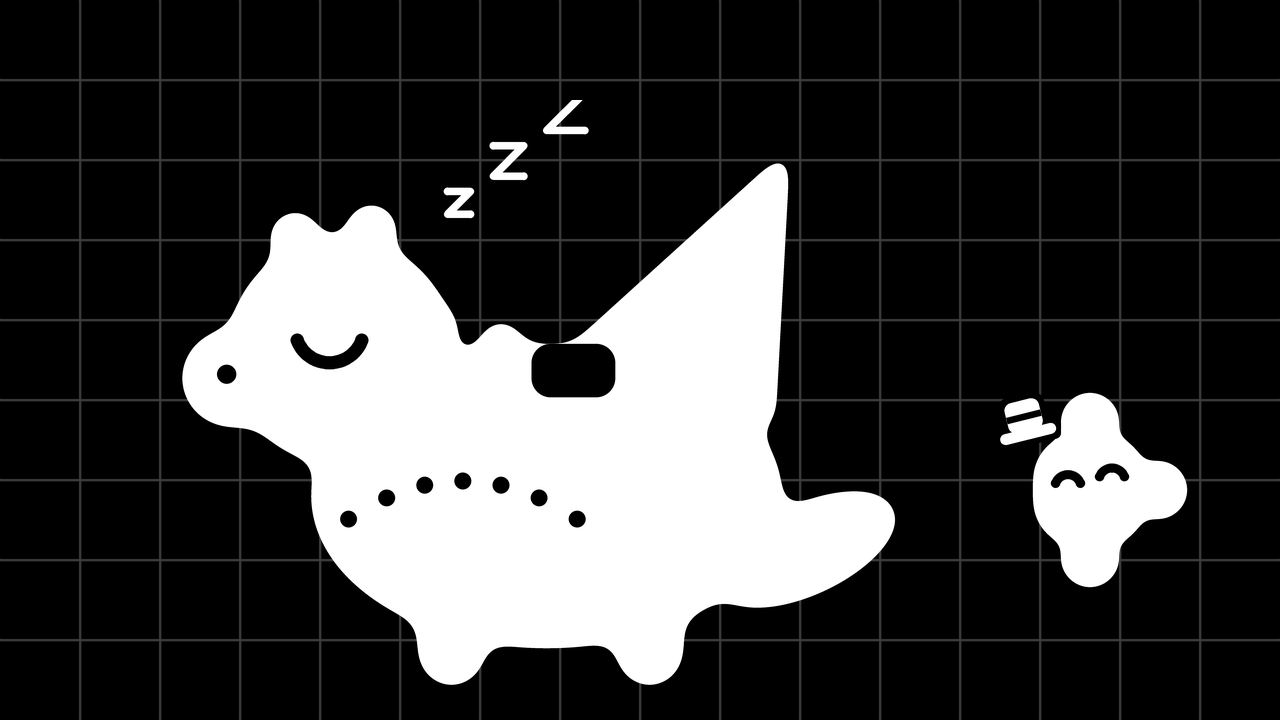
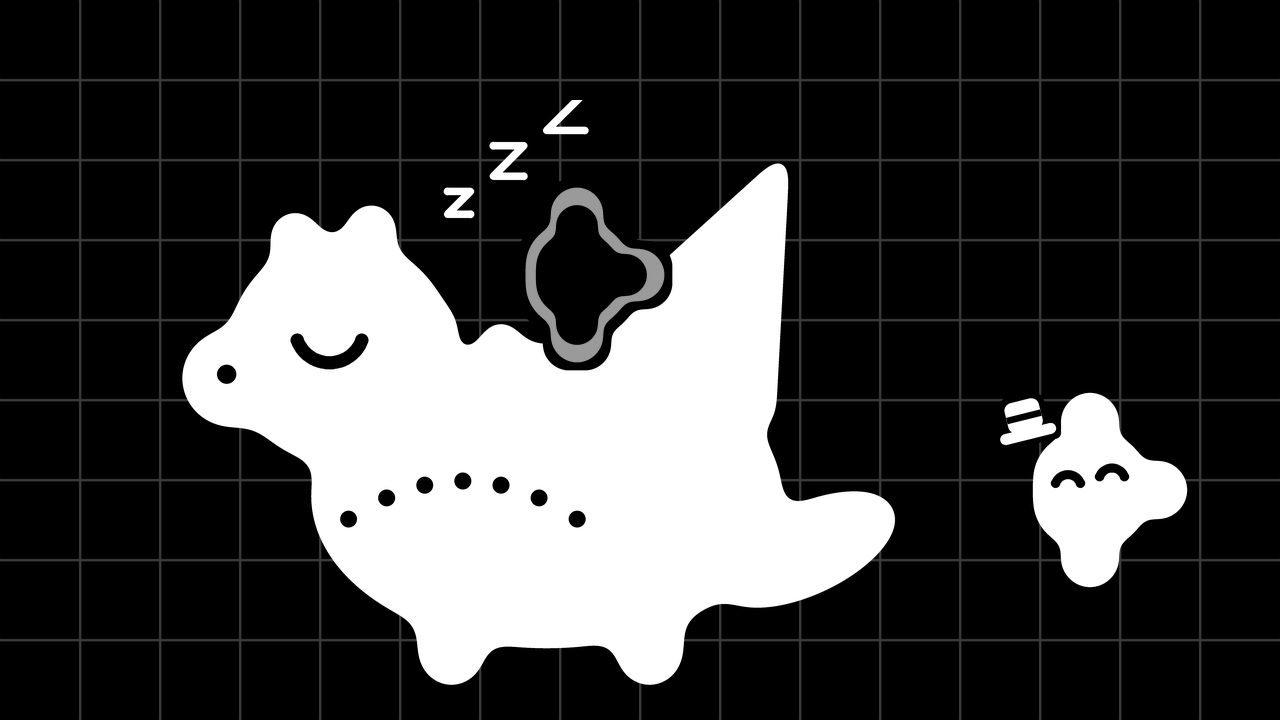
UI improvements added

Changed region(s): [[0.4062, 0.2444, 0.5312, 0.55]]

diff --git a/Assets/Scripts/KayipParca/LevelManager.cs b/Assets/Scripts/KayipParca/LevelManager.cs
@@ -64,7 +64,9 @@ namespace KayipParca
         // HUD yerlesimi (1920x1080 tuval birimi). Kamera tahtayi bu bantlarin arasina sigdirir.
         const float HudTop = 24f, IconSize = 96f, IconLabel = 32f, IconGap = 26f, MovesWidth = 300f, PillWidth = 236f;
         const float TopReserve = HudTop + IconSize + IconLabel + 18f;   // ust bant: baslik, hamle, sekil ikonlari
-        const float BottomReserve = 128f;                               // alt bant: ipucu + kontroller
+        const float HintReserve = 128f;                                 // ipucu + kontroller
+        const float MessageHeight = 140f, MessageGap = 36f;             // orta mesaj seridi: ipucunun ustunde
+        const float BottomReserve = HintReserve + MessageGap + MessageHeight;   // alt bant: mesaj + ipucu + kontroller
 
         enum Death { None, Hazard, Enemy, Laser, Fire, Moves }
 
@@ -163,6 +165,7 @@ namespace KayipParca
             if (a < 0) return;
             if (inScreen) { if (a == 8) screenNext = true; if (a == 10) screenSkip = true; return; }
             if (busy) return;
+            if (introShowing && a != 10) { introShowing = false; ShowMessage(""); }   // ilk hamlede seviye yazisi kalkar
             if (a <= 5 || a == 8) Step(a);
             else if (a == 6) Undo();
             else if (a == 7) { Play(sfxBump); ResetState(); }
@@ -263,13 +266,14 @@ namespace KayipParca
             }
             if (message)
             {
-                UIKit.Style(message, UIKit.Body, 60, TextAnchor.MiddleCenter);
-                UIKit.Stretch(message.rectTransform, .17f, .2f, .83f, .8f);   // sabit 1300 birimlik balonun icinde sarar
+                // tahtanin altinda, ipucunun ustunde yatay serit; balon yaziya gore boyutlanir (tahtayi ortmez)
+                UIKit.Style(message, UIKit.Body, 40, TextAnchor.MiddleCenter);
+                UIKit.BottomBand(message.rectTransform, 200, 200, HintReserve + MessageGap, MessageHeight);
             }
             if (hint)
             {
                 UIKit.Style(hint, UIKit.Body, 30, TextAnchor.LowerCenter);
-                UIKit.BottomBand(hint.rectTransform, 80, 80, 68, BottomReserve - 74);
+                UIKit.BottomBand(hint.rectTransform, 80, 80, 68, HintReserve - 74);
             }
         }
 
@@ -325,9 +329,8 @@ namespace KayipParca
         public static HudWidgets BuildHud(Text title, Text moves, Text message, Text hint)
         {
             LayoutHudTexts(title, moves, message, hint);
-            // orta mesaj: beyaz konusma balonu, siyah yazi (blob stili)
-            if (message && !message.transform.parent.Find(message.name + "_Zemin"))
-                UIKit.SetCorner(UIKit.AddBackdrop(message, Color.white, UIKit.BackdropPad, new Vector2(1300, 240)), 48);
+            // mesaj: yaziya gore boyutlanan yari saydam gecisli beyaz balon, siyah yazi (blob stili)
+            if (message) UIKit.AddBubble(message);
             if (message) message.color = Color.black;
             // hamle sayaci: sabit boyutlu beyaz hap, siyah rakam (rakam degisince hap oynamaz)
             if (moves && !moves.transform.parent.Find(moves.name + "_Zemin"))
@@ -371,6 +374,12 @@ namespace KayipParca
         }
 
         // ------------------------------------------------------------------ seviye yukleme
+        /// Seviye adi + hikaye balonunun (gecis bittikten sonra) en fazla ekranda kalma suresi; ilk hamlede hemen kalkar.
+        const float IntroHold = 2.5f;
+        bool introShowing;
+        /// Kazaninca outro metninin ekranda kalma suresi.
+        const float OutroHold = 1.6f;
+
         IEnumerator LoadLevel(int i)
         {
             busy = true;
@@ -379,11 +388,12 @@ namespace KayipParca
             if (!firstLoad && themes) yield return themes.FadeOut();
             firstLoad = false;
             Build(i);
-            ShowMessage($"{LevelNumber()}. {data.name}" + (string.IsNullOrEmpty(data.story) ? "" : "\n<size=34>" + data.story + "</size>"));
+            ShowMessage($"{LevelNumber()}. {data.name}" + (string.IsNullOrEmpty(data.story) ? "" : "\n<size=30>" + data.story + "</size>"));
+            introShowing = true;
             if (themes) yield return themes.FadeIn(data.theme);
             busy = false;
-            yield return new WaitForSeconds(1.6f);
-            if (!busy && !inScreen && index == i) ShowMessage("");
+            for (float t = 0; t < IntroHold && introShowing && index == i; t += Time.deltaTime) yield return null;
+            if (introShowing && !busy && !inScreen && index == i) { introShowing = false; ShowMessage(""); }
         }
 
         int LevelNumber()
@@ -885,7 +895,7 @@ namespace KayipParca
             bool saved = data.hasLost && s.following;
             if (saved) { rescued.Add(entries[index].file); SaveRescued(); ApplyVisuals(snap: false); }
             ShowMessage("Tık!" + (saved ? "\n<size=34>Kayıp parçayı kurtardın!</size>" : "") + (string.IsNullOrEmpty(data.outro) ? "" : "\n<size=34>" + data.outro + "</size>"));
-            yield return new WaitForSeconds(string.IsNullOrEmpty(data.outro) ? 0.8f : 2.6f);
+            yield return new WaitForSeconds(string.IsNullOrEmpty(data.outro) ? 0.6f : OutroHold);
 
             PickEnding(out string endText, out string endImg);
             bool hasEnding = endText != null;

diff --git a/Assets/Scripts/KayipParca/UIKit.cs b/Assets/Scripts/KayipParca/UIKit.cs
@@ -18,6 +18,10 @@ namespace KayipParca
         /// Ikincil yazilar (etiketler, tus aciklamalari): siyah zemin ustunde gri.
         public static readonly Color Mute = new Color(.6f, .6f, .6f);
         public static readonly Color BackdropColor = new Color(0, 0, 0, .62f);
+        /// Mesaj balonu rengi (ust / alt). Balon artik tahtanin altinda durdugu icin opak beyaz;
+        /// alfa ya da ton degistirilerek dikey gecis verilebilir (UIGradient bu iki rengi harmanlar).
+        public static readonly Color BubbleTop = Color.white;
+        public static readonly Color BubbleBottom = Color.white;
         public static readonly Vector2 BackdropPad = new Vector2(44, 20);
 
         public static Font DefaultFont => Resources.GetBuiltinResource<Font>("LegacyRuntime.ttf");
@@ -270,6 +274,36 @@ namespace KayipParca
                 rounded = Sprite.Create(tex, new Rect(0, 0, n, n), new Vector2(.5f, .5f), 100, 0, SpriteMeshType.FullRect, new Vector4(r, r, r, r));
                 return rounded;
             }
+        }
+
+        /// Grafige dikey renk gecisi ekler (ust -> alt). Image.color ile carpilir; balon icin Color.white verin.
+        public static UIGradient AddGradient(Graphic g, Color top, Color bottom)
+        {
+            var grad = g.GetComponent<UIGradient>();
+            if (!grad) grad = g.gameObject.AddComponent<UIGradient>();
+            grad.Set(top, bottom);
+            return grad;
+        }
+
+        /// Metnin arkasina blob stili konusma balonu: yuvarlak koseli, yari saydam beyaz gecisli zemin.
+        /// fixedSize verilmezse balon yaziya gore boyutlanir (kisa mesajda kucuk hap, uzun mesajda genis balon).
+        /// Metnin zaten bir zemini varsa (sahneye kaydedilmis olabilir) onu yeniden kurmaz, ayarlarini gunceller.
+        public static Image AddBubble(Text t, Vector2 fixedSize = default, float corner = 40)
+        {
+            var old = t.transform.parent.Find(t.name + "_Zemin");
+            Image bg;
+            if (old && old.GetComponent<TextBackdrop>())
+            {
+                bg = old.GetComponent<Image>();
+                bg.color = Color.white; bg.sprite = RoundedSprite; bg.type = Image.Type.Sliced;
+                var fit = old.GetComponent<TextBackdrop>();
+                fit.text = t; fit.pad = BackdropPad; fit.fixedSize = fixedSize;
+                fit.Refresh();
+            }
+            else bg = AddBackdrop(t, Color.white, BackdropPad, fixedSize);
+            SetCorner(bg, corner);
+            AddGradient(bg, BubbleTop, BubbleBottom);
+            return bg;
         }
 
         public static Image MakePanel(Transform parent, string name, Color col)

diff --git a/Tools/art_blob.py b/Tools/art_blob.py
@@ -273,11 +273,9 @@ def dragon_side(kind, k=1.0, rider=None, seat=False, seat_rect=(108, 64, 130, 78
         t = i / 6; x = 60 + 60 * t; y = 110 - 10 * 4 * t * (1 - t)
         ink.circle(x * k, y * k, 2.2 * k)
     if kind == 'awake':
-        ink.circle(*T(52, 60), 4 * k); ink.line([T(42, 50), T(62, 54)], 2.6 * k)
-        ink.poly([T(18, 80), T(50, 80), T(34, 88)])
+        ink.circle(*T(54, 60), 4.5 * k)                       # acik goz; yuz basliktakiyle ayni, sadece uyanik
     else:
         ink.arc(*T(55, 60), 9 * k, 20, 160, 3.5 * k)
-    if seat and rider is None: ink.rrect(*T(seat_rect[0], seat_rect[1]), *T(seat_rect[2], seat_rect[3]), 5 * k)
     layers = [(body, W), (ink, K)]
     if kind == 'sleep':
         z = Ink(w, h)
@@ -289,6 +287,13 @@ def dragon_side(kind, k=1.0, rider=None, seat=False, seat_rect=(108, 64, 130, 78
         halo = Image.new('L', (w, h), 0)
         halo.paste(rider.split()[3].filter(ImageFilter.MaxFilter(int(2.2 * k) * 2 + 1)), (rx, ry))
         layers.append((halo, K)); layers.append((rider, rx, ry))
+    elif seat:
+        # bos eyer: binicinin yerinde soluk gri, ici bos parca cercevesi (eksik yapboz parcasi)
+        ghost = piece_img('1110', int(52 * k), face=None, outline=True, fill=G)
+        rx, ry = int(120 * k - ghost.width / 2), int(46 * k - ghost.height / 2)
+        halo = Image.new('L', (w, h), 0)
+        halo.paste(ghost.split()[3].filter(ImageFilter.MaxFilter(int(2.2 * k) * 2 + 1)), (rx, ry))
+        layers.append((halo, K)); layers.append((ghost, rx, ry))
     return compose(w, h, layers)
 
 
@@ -337,9 +342,10 @@ def make_common():
     save(yamali_img(PX), 'Common', 'yamali.png')
     # oyun ici ejderha: yandan, 6x4 karo (384x256, PPU 64). Level 8'de dikdortgen 6 genis 4 yuksek; eyer karosu
     # dikdortgenin (3,1) karosu = sirtin ustu. Agiz sol kenarda 1. satirda (ates oradan cikar).
+    # Basliktakiyle birebir ayni cizim (eyer yuvasi cizilmez: kapak / isik / Yamali / yuva karoda ayri). 768x512, PPU 128.
     for kind in ('awake', 'sleep'):
-        side = dragon_side(kind, 1.6, seat=True, seat_rect=(113, 67, 137, 76))
-        canvas_ = Image.new('RGBA', (384, 256), (0, 0, 0, 0)); canvas_.alpha_composite(side, (24, 0))
+        side = dragon_side(kind, 3.2)
+        canvas_ = Image.new('RGBA', (768, 512), (0, 0, 0, 0)); canvas_.alpha_composite(side, (48, 0))
         save(canvas_, 'Common', f'dragon_{kind}.png')
     closed, glow = seat_tiles()
     save(closed, 'Common', 'chest_closed.png'); save(glow, 'Common', 'chest_glow.png')

diff --git a/Assets/Scripts/KayipParca/UIGradient.cs b/Assets/Scripts/KayipParca/UIGradient.cs
@@ -1,0 +1,38 @@
+using UnityEngine;
+using UnityEngine.UI;
+
+namespace KayipParca
+{
+    /// <summary>
+    /// Bir UI grafigine dikey renk gecisi verir (UIKit.AddGradient kurar). Kose noktalarinin rengini,
+    /// kutudaki yuksekligine gore top ile bottom arasinda harmanlayip Image.color ile carpar.
+    /// 9-dilim sprite'larda da calisir (dilim sinirlarindaki noktalar arasinda dogrusal gecis).
+    /// </summary>
+    [AddComponentMenu("KayipParca/UI Gradient")]
+    public class UIGradient : BaseMeshEffect
+    {
+        public Color top = Color.white;
+        public Color bottom = new Color(1, 1, 1, .6f);
+
+        public override void ModifyMesh(VertexHelper vh)
+        {
+            if (!IsActive() || vh.currentVertCount == 0) return;
+            var rect = graphic.rectTransform.rect;
+            float h = Mathf.Max(rect.height, 1e-4f);
+            var v = new UIVertex();
+            for (int i = 0; i < vh.currentVertCount; i++)
+            {
+                vh.PopulateUIVertex(ref v, i);
+                float t = Mathf.Clamp01((v.position.y - rect.yMin) / h);
+                v.color = (Color32)((Color)v.color * Color.Lerp(bottom, top, t));
+                vh.SetUIVertex(v, i);
+            }
+        }
+
+        public void Set(Color topCol, Color bottomCol)
+        {
+            top = topCol; bottom = bottomCol;
+            if (graphic) graphic.SetVerticesDirty();
+        }
+    }
+}

diff --git a/Assets/Scripts/KayipParca/Yamali/YamaliGame.cs b/Assets/Scripts/KayipParca/Yamali/YamaliGame.cs
@@ -786,10 +786,10 @@ namespace KayipParca
             var row = armyRow.gameObject.AddComponent<HorizontalLayoutGroup>();
             row.childAlignment = TextAnchor.MiddleRight; row.spacing = 10;
             row.childControlWidth = row.childControlHeight = false; row.childForceExpandWidth = row.childForceExpandHeight = false;
-            // orta mesaj: beyaz konusma balonu, siyah yazi
+            // orta mesaj: yari saydam gecisli beyaz konusma balonu, siyah yazi
             msgText = UIKit.MakeText(root, "Mesaj", UIKit.Body, 48, TextAnchor.MiddleCenter);
             UIKit.Stretch(msgText.rectTransform, .17f, .42f, .83f, .74f);
-            UIKit.SetCorner(UIKit.AddBackdrop(msgText, Color.white, UIKit.BackdropPad, new Vector2(1300, 200)), 48);
+            UIKit.AddBubble(msgText);   // yaziya gore boyutlanir
             msgText.color = Color.black;
             // alt: seviye ipucu, altinda tus kapaklari
             hintText = UIKit.MakeText(root, "Ipucu", UIKit.Body, 30, TextAnchor.LowerCenter);

diff --git a/Assets/Scripts/KayipParca/Editor/KayipParcaSetup.cs b/Assets/Scripts/KayipParca/Editor/KayipParcaSetup.cs
@@ -27,7 +27,7 @@ namespace KayipParca.EditorTools
             string p = assetPath.Replace('\\', '/');
             bool blob = p.Contains("/Art/Player/") || p.Contains("/Art/Enemies/") || p.Contains("/Art/Story/") || p.Contains("/Art/Yamali/") || p.Contains("/Art/Slots/")
                      || System.Array.Exists(BlobCommon, n => p.EndsWith("/Art/Common/" + n + ".png"));
-            ti.spritePixelsPerUnit = blob ? 64 : 32;
+            ti.spritePixelsPerUnit = blob ? (p.Contains("/Art/Common/dragon_") ? 128 : 64) : 32;   // ejderha 768x512 = 6x4 karo
             ti.filterMode = blob ? FilterMode.Bilinear : FilterMode.Point;
             ti.textureCompression = TextureImporterCompression.Uncompressed;
             ti.mipmapEnabled = false;
